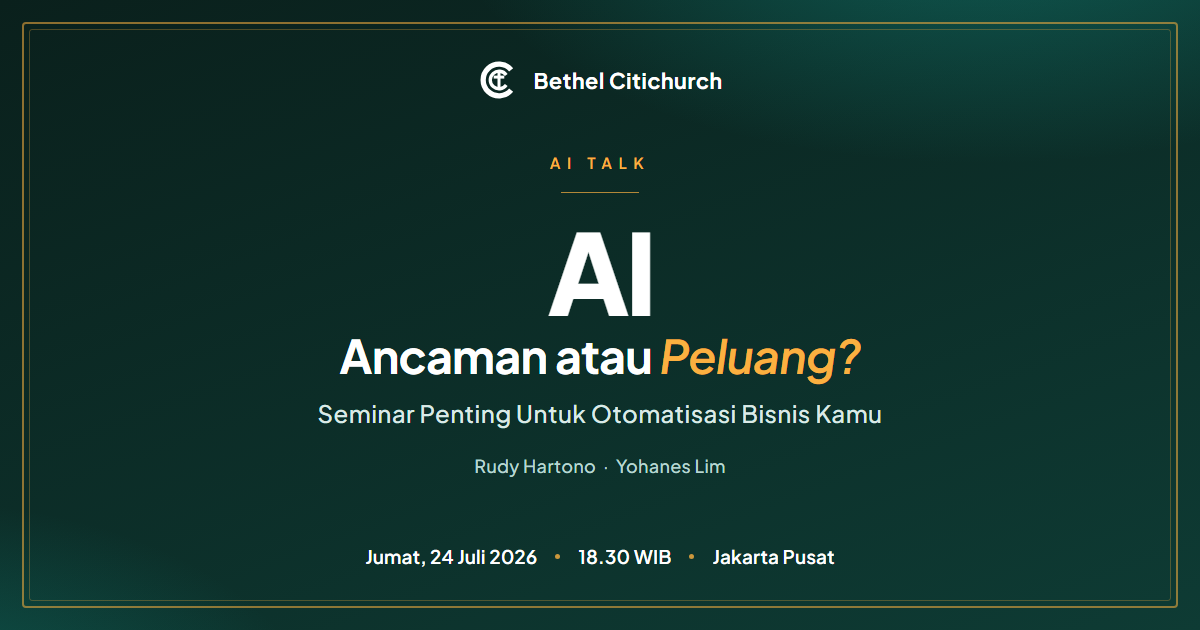
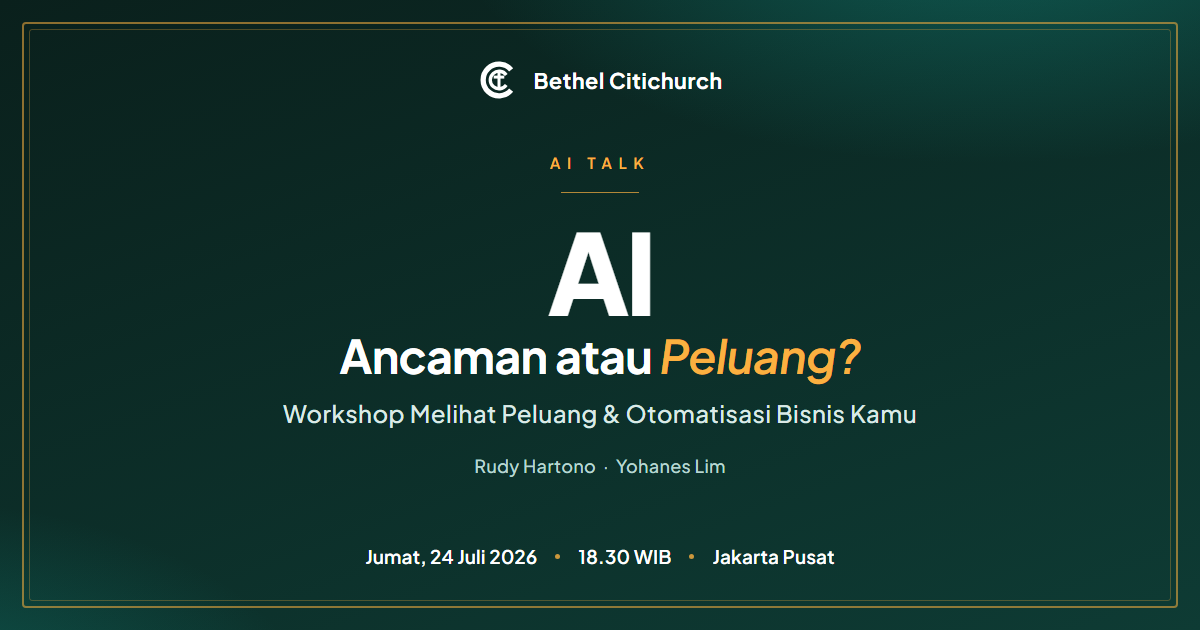
Reword subtitle to workshop framing
"Workshop Melihat Peluang & Otomatisasi Bisnis Kamu" — updated on the
invite, the share card, and the description/og meta tags.

Changed region(s): [[0.2158, 0.6333, 0.7708, 0.6937]]

diff --git a/index.html b/index.html
@@ -4,18 +4,18 @@
 <meta charset="UTF-8">
 <meta name="viewport" content="width=device-width, initial-scale=1.0">
 <title>AI — Ancaman atau Peluang? | Bethel Citichurch</title>
-<meta name="description" content="Seminar penting untuk otomatisasi bisnis kamu, bersama Rudy Hartono &amp; Yohanes Lim. Jumat, 24 Juli 2026, 18.30 WIB di Bethel Citichurch, Jakarta Pusat. Daftar sekarang — kuota terbatas.">
+<meta name="description" content="Workshop melihat peluang &amp; otomatisasi bisnis kamu, bersama Rudy Hartono &amp; Yohanes Lim. Jumat, 24 Juli 2026, 18.30 WIB di Bethel Citichurch, Jakarta Pusat. Daftar sekarang — kuota terbatas.">
 
 <meta property="og:type" content="website">
 <meta property="og:locale" content="id_ID">
 <meta property="og:site_name" content="Bethel Citichurch">
 <meta property="og:title" content="AI — Ancaman atau Peluang?">
-<meta property="og:description" content="Seminar penting untuk otomatisasi bisnis kamu, bersama Rudy Hartono &amp; Yohanes Lim. Jumat, 24 Juli 2026, 18.30 WIB di Bethel Citichurch, Jakarta Pusat. Daftar sekarang — kuota terbatas.">
+<meta property="og:description" content="Workshop melihat peluang &amp; otomatisasi bisnis kamu, bersama Rudy Hartono &amp; Yohanes Lim. Jumat, 24 Juli 2026, 18.30 WIB di Bethel Citichurch, Jakarta Pusat. Daftar sekarang — kuota terbatas.">
 <meta property="og:url" content="https://xsistant.github.io/Ai-Talk/">
 <meta property="og:image" content="https://xsistant.github.io/Ai-Talk/BCC-AiTalk-share.png">
 <meta property="og:image:width" content="1200">
 <meta property="og:image:height" content="630">
-<meta property="og:image:alt" content="AI — Ancaman atau Peluang? Seminar otomatisasi bisnis, Jumat 24 Juli 2026, Bethel Citichurch.">
+<meta property="og:image:alt" content="AI — Ancaman atau Peluang? Workshop otomatisasi bisnis, Jumat 24 Juli 2026, Bethel Citichurch.">
 <meta name="twitter:card" content="summary_large_image">
 
 <link rel="preconnect" href="https://fonts.googleapis.com">
@@ -253,7 +253,7 @@
       <span class="ai">AI</span>
       <span class="q">Ancaman atau <span class="amp">Peluang?</span></span>
     </h1>
-    <div class="title-sub">Seminar Penting Untuk Otomatisasi Bisnis Kamu</div>
+    <div class="title-sub">Workshop Melihat Peluang &amp; Otomatisasi Bisnis Kamu</div>
 
     <div class="rule" style="margin-top:30px;margin-bottom:20px"></div>
     <div class="invite-label" style="margin-bottom:18px">Pembicara</div>

diff --git a/BCC-AiTalk-share.html b/BCC-AiTalk-share.html
@@ -95,7 +95,7 @@
     <span class="ai">AI</span>
     <span class="q">Ancaman atau <span class="amp">Peluang?</span></span>
   </h1>
-  <div class="sub">Seminar Penting Untuk Otomatisasi Bisnis Kamu</div>
+  <div class="sub">Workshop Melihat Peluang &amp; Otomatisasi Bisnis Kamu</div>
 
   <div class="speakers">Rudy Hartono &nbsp;·&nbsp; Yohanes Lim</div>
 